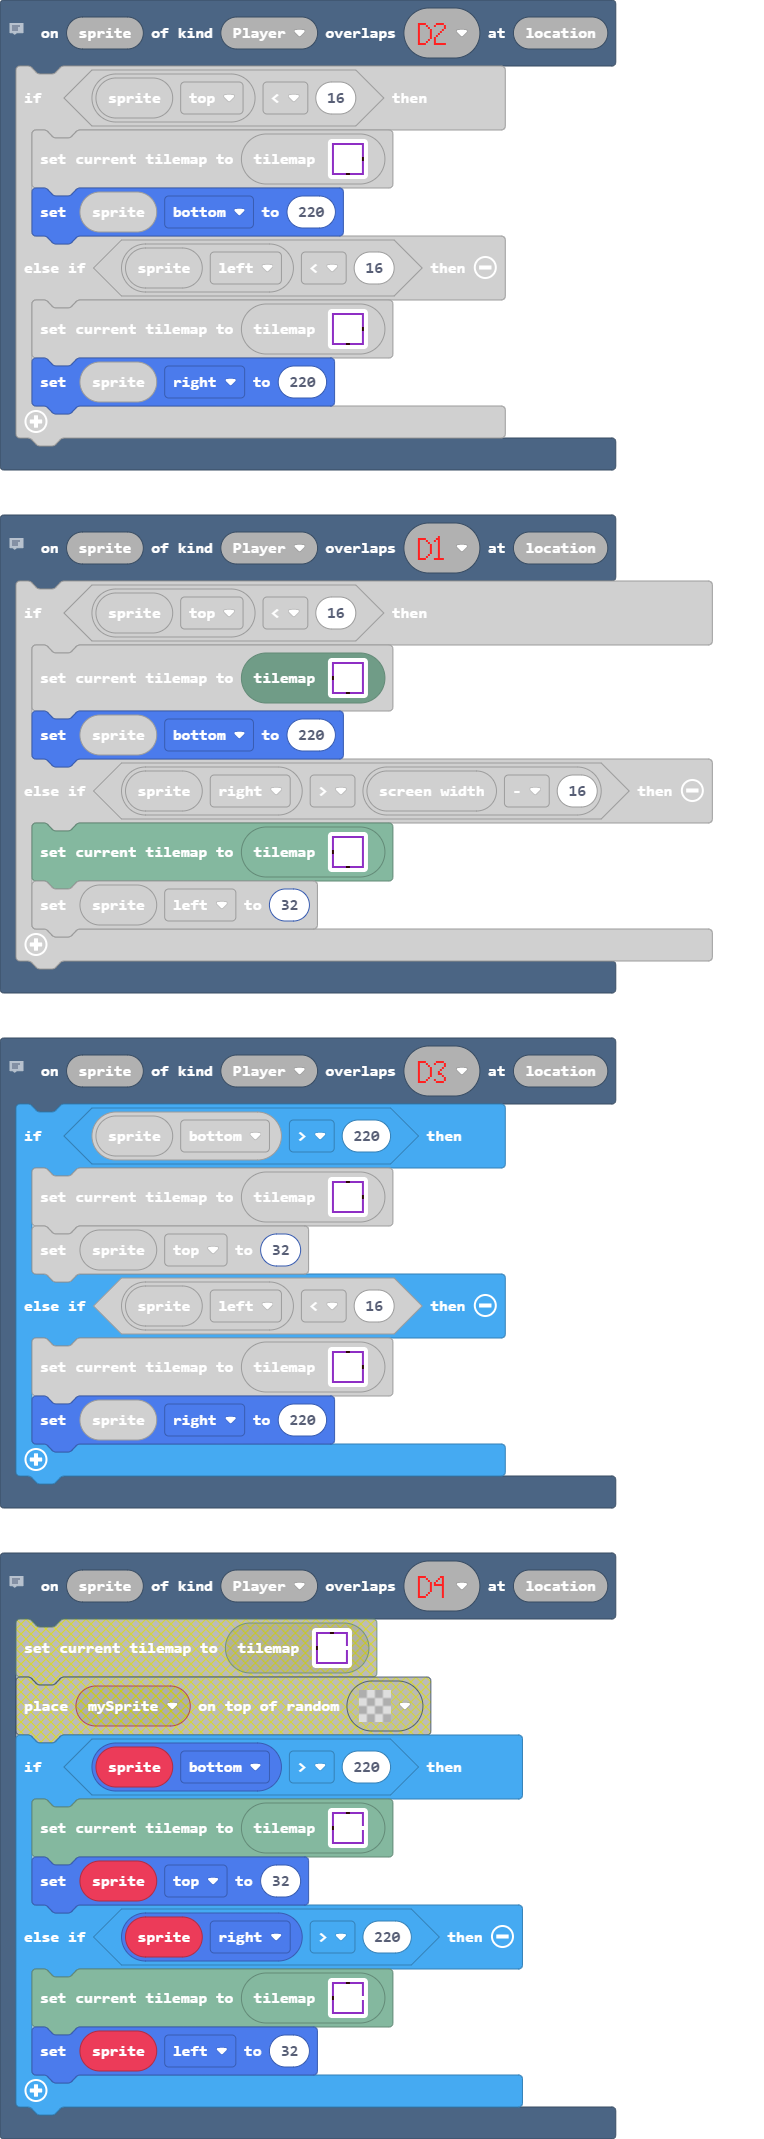
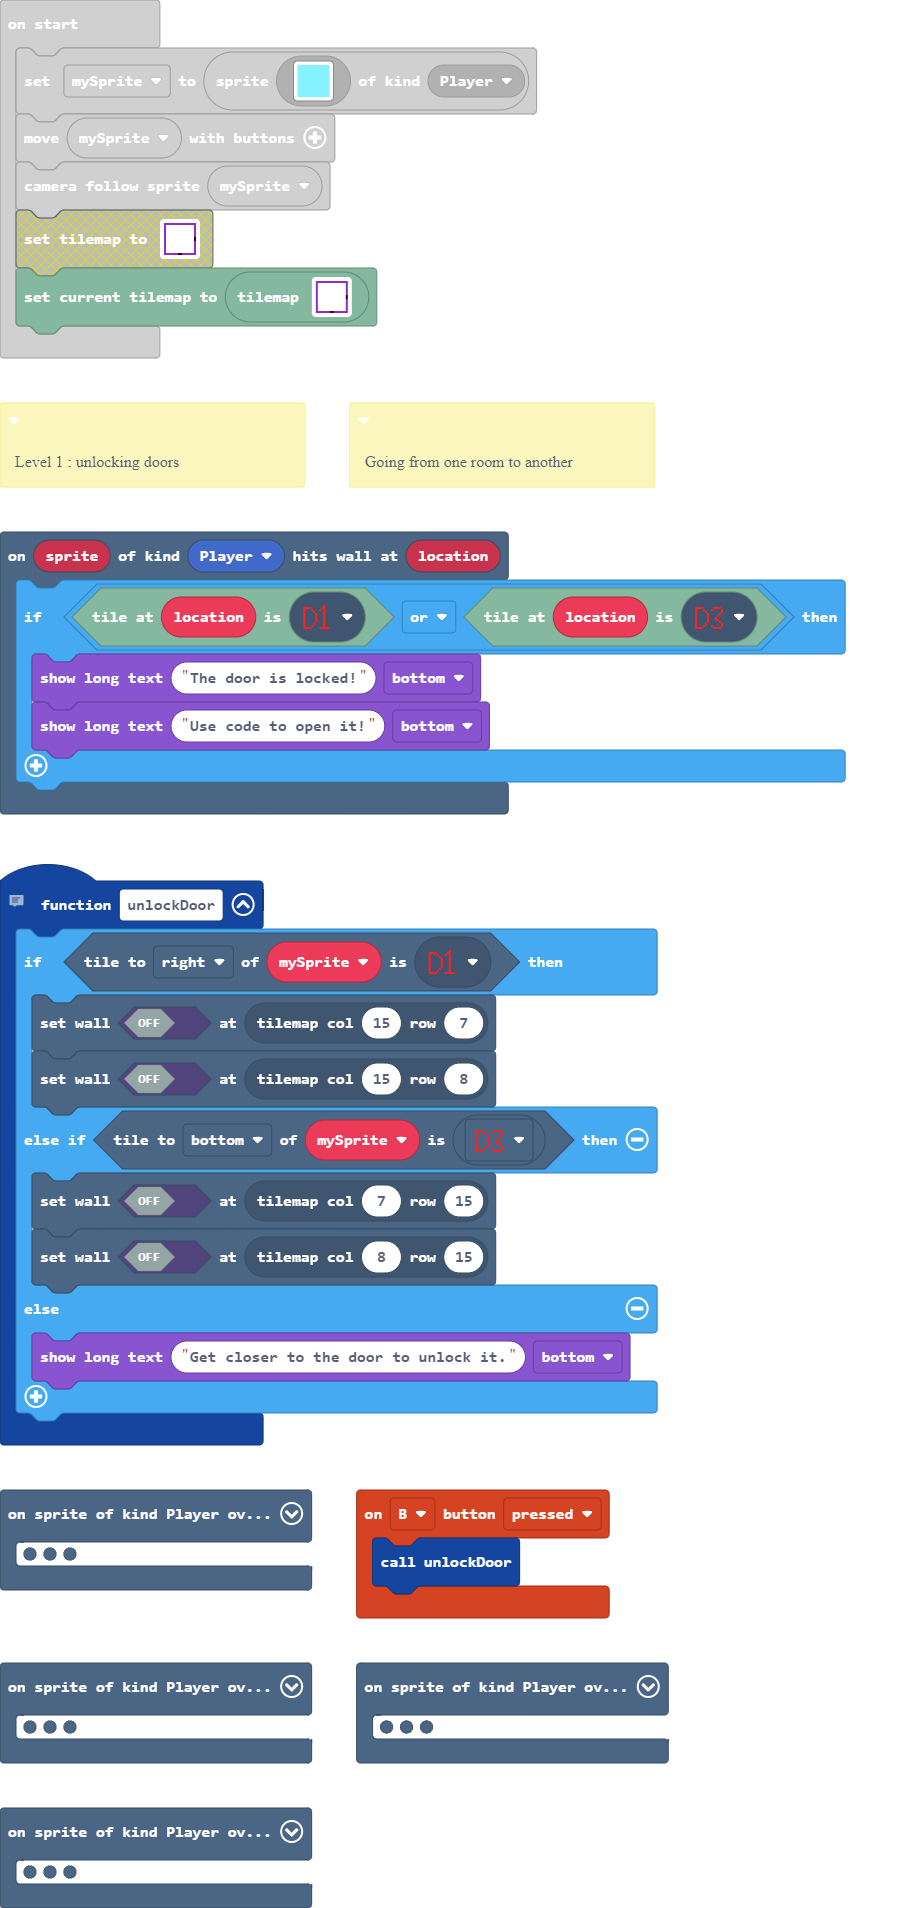
'unlock door' kinda works; unlocks both at same time instead of individually

diff --git a/main.ts b/main.ts
@@ -1,6 +1,9 @@
 namespace SpriteKind {
     export const Door = SpriteKind.create()
 }
+/**
+ * Going from one room to another
+ */
 // enter other bedroom
 scene.onOverlapTile(SpriteKind.Player, myTiles.tile2, function (sprite, location) {
     if (sprite.top < 16) {
@@ -44,6 +47,18 @@ scene.onOverlapTile(SpriteKind.Player, myTiles.tile2, function (sprite, location
             `, [myTiles.transparency16,myTiles.tile1,myTiles.tile4,myTiles.tile6], TileScale.Sixteen)))
         sprite.left = 32
     }
+})
+/**
+ * Level 1 : unlocking doors
+ */
+scene.onHitWall(SpriteKind.Player, function (sprite, location) {
+    if (tiles.tileIs(location, myTiles.tile2) || tiles.tileIs(location, myTiles.tile5)) {
+        game.showLongText("The door is locked!", DialogLayout.Bottom)
+        game.showLongText("Use code to open it!", DialogLayout.Bottom)
+    }
+})
+controller.B.onEvent(ControllerButtonEvent.Pressed, function () {
+    unlockDoor()
 })
 // enter my bedroom
 scene.onOverlapTile(SpriteKind.Player, myTiles.tile4, function (sprite, location) {
@@ -89,6 +104,18 @@ scene.onOverlapTile(SpriteKind.Player, myTiles.tile4, function (sprite, location
         sprite.right = 220
     }
 })
+// Funky behavior - must be touching D1, walls at D1 and D3 disappear at same time
+function unlockDoor () {
+    if (mySprite.tileKindAt(TileDirection.Right, myTiles.tile2)) {
+        tiles.setWallAt(tiles.getTileLocation(15, 7), false)
+        tiles.setWallAt(tiles.getTileLocation(15, 8), false)
+    } else if (mySprite.tileKindAt(TileDirection.Bottom, myTiles.tile5)) {
+        tiles.setWallAt(tiles.getTileLocation(7, 15), false)
+        tiles.setWallAt(tiles.getTileLocation(8, 15), false)
+    } else {
+        game.showLongText("Get closer to the door to unlock it.", DialogLayout.Bottom)
+    }
+}
 // enter hallway
 scene.onOverlapTile(SpriteKind.Player, myTiles.tile6, function (sprite, location) {
     if (sprite.bottom > 220) {
@@ -177,7 +204,8 @@ scene.onOverlapTile(SpriteKind.Player, myTiles.tile5, function (sprite, location
         sprite.right = 220
     }
 })
-let mySprite = sprites.create(img`
+let mySprite: Sprite = null
+mySprite = sprites.create(img`
     9 9 9 9 9 9 9 9 9 9 9 9 9 9 9 9 
     9 9 9 9 9 9 9 9 9 9 9 9 9 9 9 9 
     9 9 9 9 9 9 9 9 9 9 9 9 9 9 9 9 
@@ -197,7 +225,7 @@ let mySprite = sprites.create(img`
     `, SpriteKind.Player)
 controller.moveSprite(mySprite)
 scene.cameraFollowSprite(mySprite)
-tiles.setTilemap(tiles.createTilemap(hex`1000100001010101010101010101010101010101010000000000000000000000000000010100000000000000000000000000000101000000000000000000000000000001010000000000000000000000000000010100000000000000000000000000000101000000000000000000000000000001010000000000000000000000000000020100000000000000000000000000000201000000000000000000000000000001010000000000000000000000000000010100000000000000000000000000000101000000000000000000000000000001010000000000000000000000000000010100000000000000000000000000000101010101010101050501010101010101`, img`
+tiles.loadMap(tiles.createMap(tiles.createTilemap(hex`1000100001010101010101010101010101010101010000000000000000000000000000010100000000000000000000000000000101000000000000000000000000000001010000000000000000000000000000010100000000000000000000000000000101000000000000000000000000000001010000000000000000000000000000020100000000000000000000000000000201000000000000000000000000000001010000000000000000000000000000010100000000000000000000000000000101000000000000000000000000000001010000000000000000000000000000010100000000000000000000000000000101010101010101030301010101010101`, img`
     2 2 2 2 2 2 2 2 2 2 2 2 2 2 2 2 
     2 . . . . . . . . . . . . . . 2 
     2 . . . . . . . . . . . . . . 2 
@@ -205,13 +233,13 @@ tiles.setTilemap(tiles.createTilemap(hex`100010000101010101010101010101010101010
     2 . . . . . . . . . . . . . . 2 
     2 . . . . . . . . . . . . . . 2 
     2 . . . . . . . . . . . . . . 2 
-    2 . . . . . . . . . . . . . . . 
-    2 . . . . . . . . . . . . . . . 
     2 . . . . . . . . . . . . . . 2 
     2 . . . . . . . . . . . . . . 2 
     2 . . . . . . . . . . . . . . 2 
     2 . . . . . . . . . . . . . . 2 
     2 . . . . . . . . . . . . . . 2 
     2 . . . . . . . . . . . . . . 2 
-    2 2 2 2 2 2 2 . . 2 2 2 2 2 2 2 
-    `, [myTiles.transparency16,myTiles.tile1,myTiles.tile2,myTiles.tile3,myTiles.tile4,myTiles.tile5,myTiles.tile6], TileScale.Sixteen))
+    2 . . . . . . . . . . . . . . 2 
+    2 . . . . . . . . . . . . . . 2 
+    2 2 2 2 2 2 2 2 2 2 2 2 2 2 2 2 
+    `, [myTiles.transparency16,myTiles.tile1,myTiles.tile2,myTiles.tile5], TileScale.Sixteen)))

diff --git a/tilemap.g.ts b/tilemap.g.ts
@@ -14,6 +14,8 @@ namespace myTiles {
     export const tile5 = image.ofBuffer(hex``);
     //% fixedInstance jres blockIdentity=images._tile
     export const tile6 = image.ofBuffer(hex``);
+    //% fixedInstance jres blockIdentity=images._tile
+    export const tile9 = image.ofBuffer(hex``);
 
 }
 // Auto-generated code. Do not edit.
